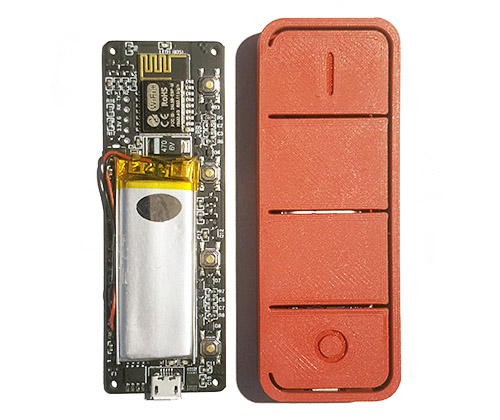
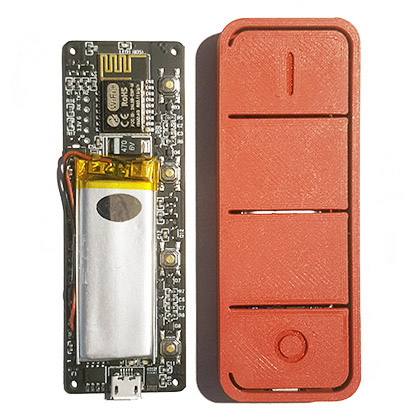
Image update

diff --git a/README.md b/README.md
@@ -1,7 +1,7 @@
 # Hugh-ESP8266
 
 Welcome to official git rep for Hugh, universal wifi remote.  
-![alt text](https://raw.githubusercontent.com/mcer12/Hugh-ESP8266/develop/Images/hugh.png)
+![alt text](https://raw.githubusercontent.com/mcer12/Hugh-ESP8266/develop/Images/hugh.jpg)
 
 ## Useful information
 3D printable case available here:  
